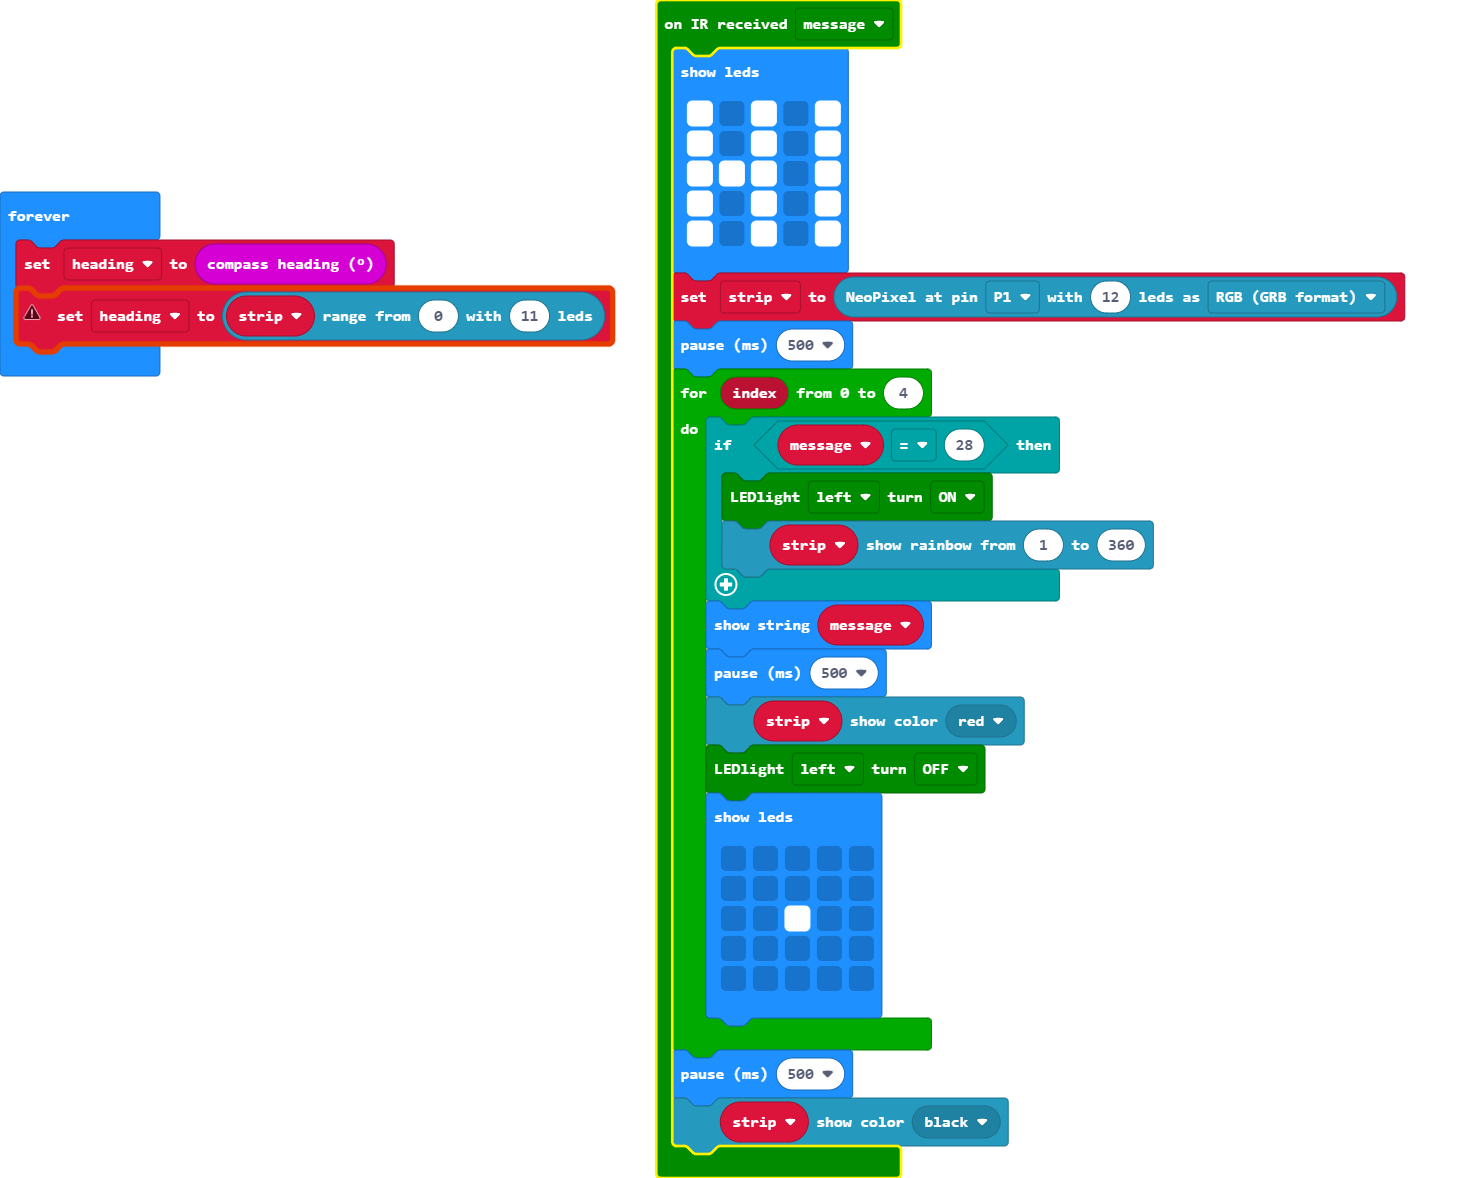
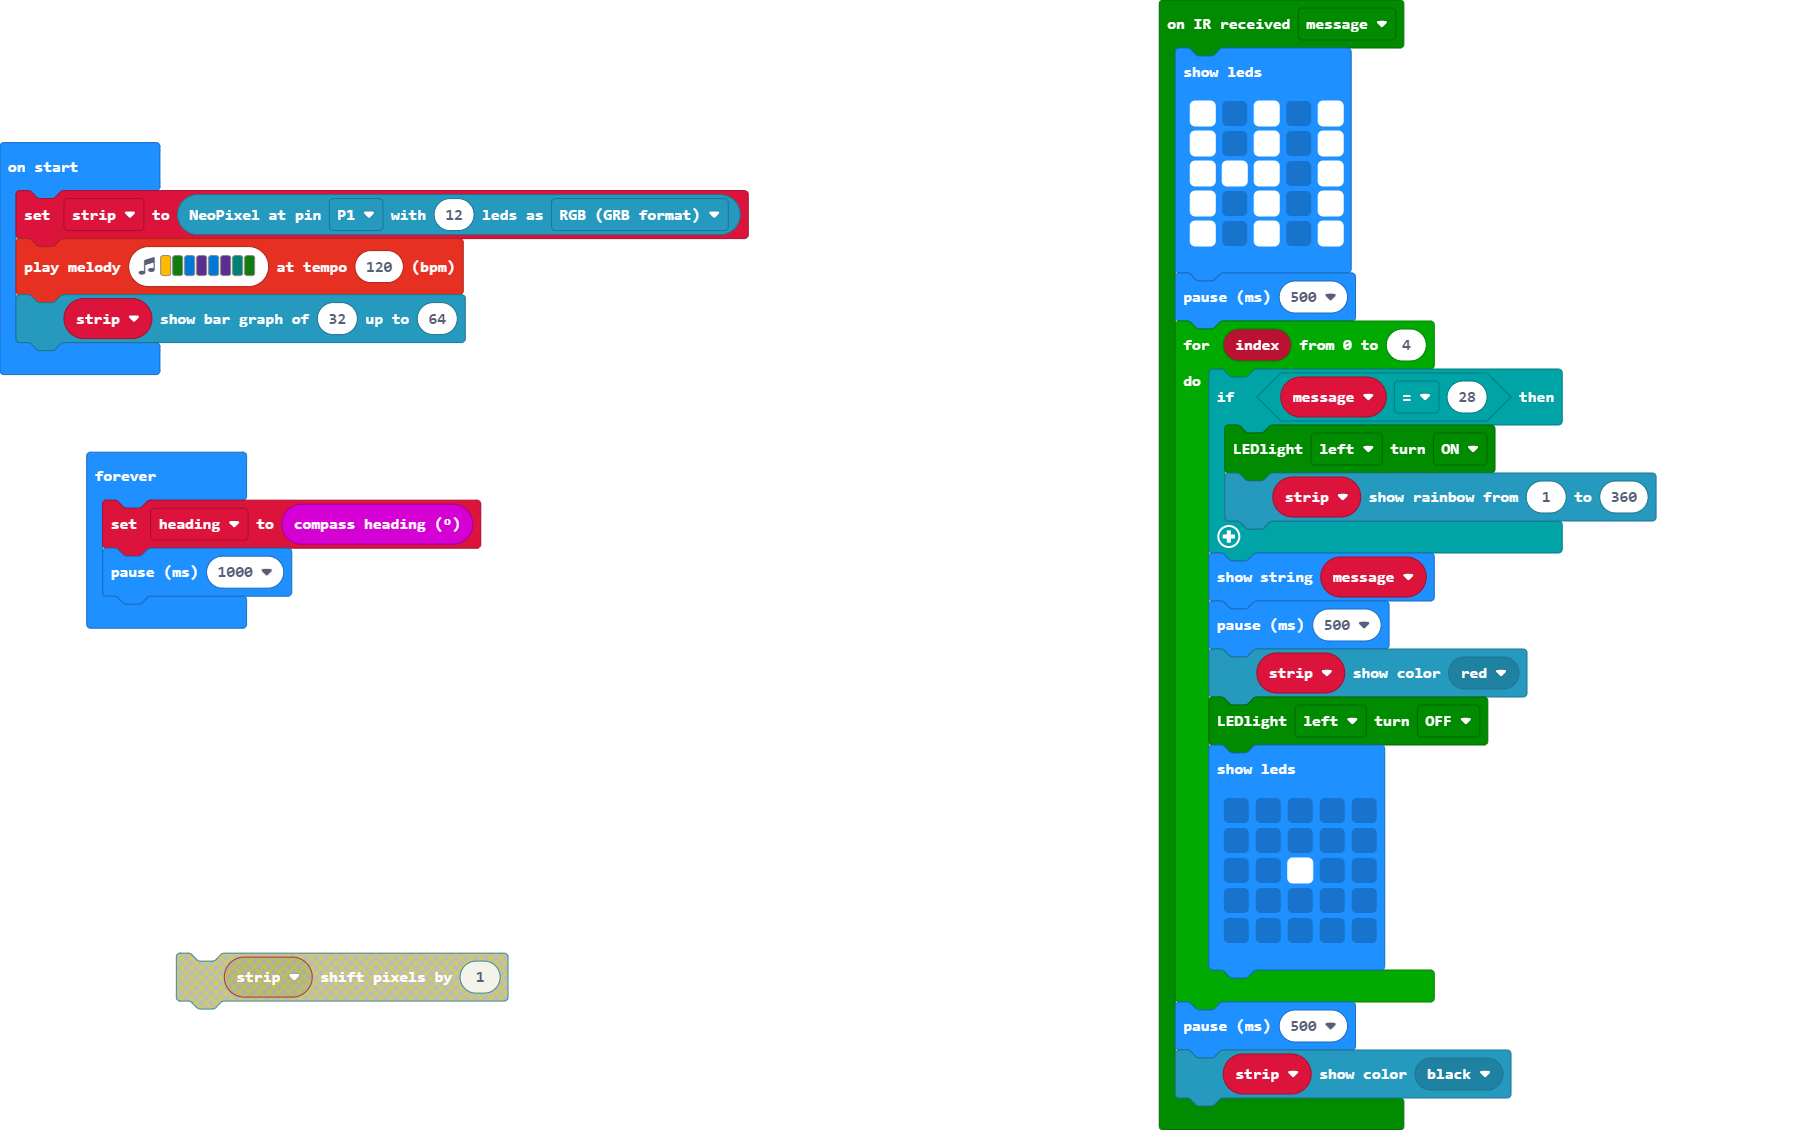
Update main.blocks, main.ts

diff --git a/main.ts b/main.ts
@@ -1,5 +1,3 @@
-let strip: neopixel.Strip = null
-let heading = 0
 maqueen.IR_callbackUser(function (message) {
     basic.showLeds(`
         # . # . #
@@ -8,7 +6,6 @@ maqueen.IR_callbackUser(function (message) {
         # . # . #
         # . # . #
         `)
-    strip = neopixel.create(DigitalPin.P1, 12, NeoPixelMode.RGB)
     basic.pause(500)
     for (let index = 0; index <= 4; index++) {
         if (message == 28) {
@@ -30,7 +27,12 @@ maqueen.IR_callbackUser(function (message) {
     basic.pause(500)
     strip.showColor(neopixel.colors(NeoPixelColors.Black))
 })
+let heading = 0
+let strip: neopixel.Strip = null
+strip = neopixel.create(DigitalPin.P1, 12, NeoPixelMode.RGB)
+music.playMelody("A G E D E D F G ", 120)
+strip.showBarGraph(32, 64)
 basic.forever(function () {
     heading = input.compassHeading()
-    heading = strip.range(0, 11)
+    basic.pause(1000)
 })
